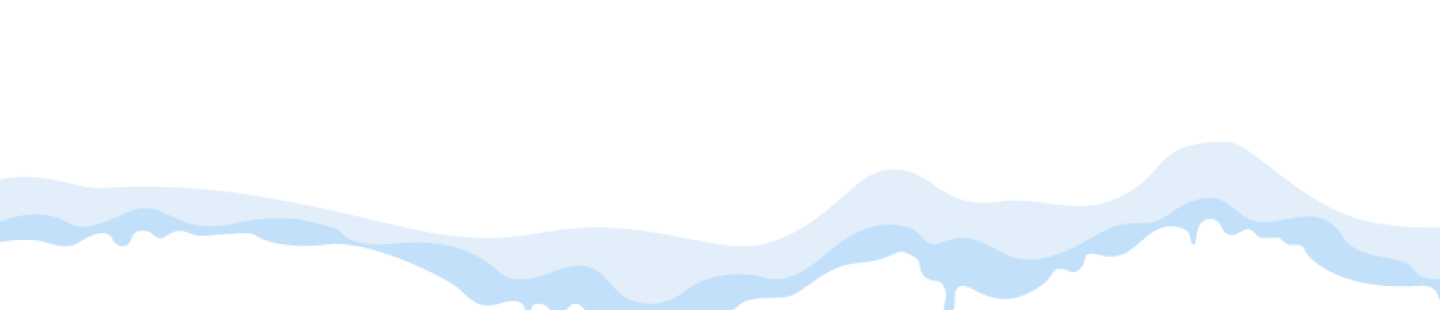
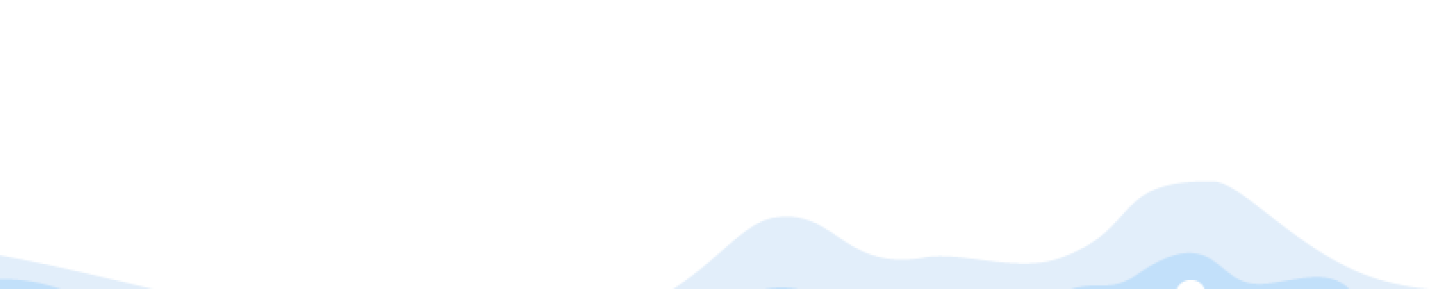
file

Changed region(s): [[0.0, 0.4671, 1.0, 1.0], [0.0, 0.872, 0.125, 1.0]]

diff --git a/chinchilla/src/Page/WhatWho.js b/chinchilla/src/Page/WhatWho.js
@@ -1,7 +1,7 @@
 import React, { Component } from 'react';
 import styled, { keyframes } from 'styled-components';
 // Create the keyframes
-const rotate = keyframes`
+const colorchange = keyframes`
   0% {
     background-color: #6cd1fd;
 }
@@ -13,27 +13,42 @@ const rotate = keyframes`
     background-color: #6cd1fd;
 
 }
-`;
+`
+
 const Background = styled.div`
     height : 100vh;
     background-color : #6cd1fd;
-    animation: ${rotate} 5s linear infinite;
+    background-attachment: fixed;
+    animation: ${colorchange} 5s linear infinite;
+    z-index: -1;
+`
+const background1 = styled.img`
+  // margin-top: -1000px;
+  // margin-left: 100px;
+  width: 100%;
+  z-index: 0;
+`
+const background2 = styled.img`
+  margin-top: -1000px;
+  margin-left: 100px;
+  position: absolute;
+  margin-right: 200px;
+  width: 100%;
+  z-index: 1;
 `
 
-
-// Here we create a component that will rotate everything we pass in over two seconds
-const Rotate = styled.div`
-//   background-color: red;
-  animation: ${rotate} 2s linear infinite;
-`;
+const ColorChange = styled.div`
+  animation: ${colorchange} 2s linear infinite;
+`
 
 class WhatWho extends Component {
   render() {
     return (
       <div className="App">
       <Background>
-      <Rotate>&lt; 💅 ">">">">&gt;</Rotate>
-         <img src='.\images\Desktop2\s4-1.png' width="100%" />
+      <background1 src='.\images\Desktop2\s4.png' />
+      <background1 src='.\images\Desktop2\Group_2.png'/>
+
           </Background>
       </div>
     );

diff --git a/chinchilla/src/App.js b/chinchilla/src/App.js
@@ -6,7 +6,7 @@ class App extends Component {
   render() {
     return (
       <div className="App">
-      {/* <Home /> */}
+      <Home />
       <WhatWho />
       </div>
     );
